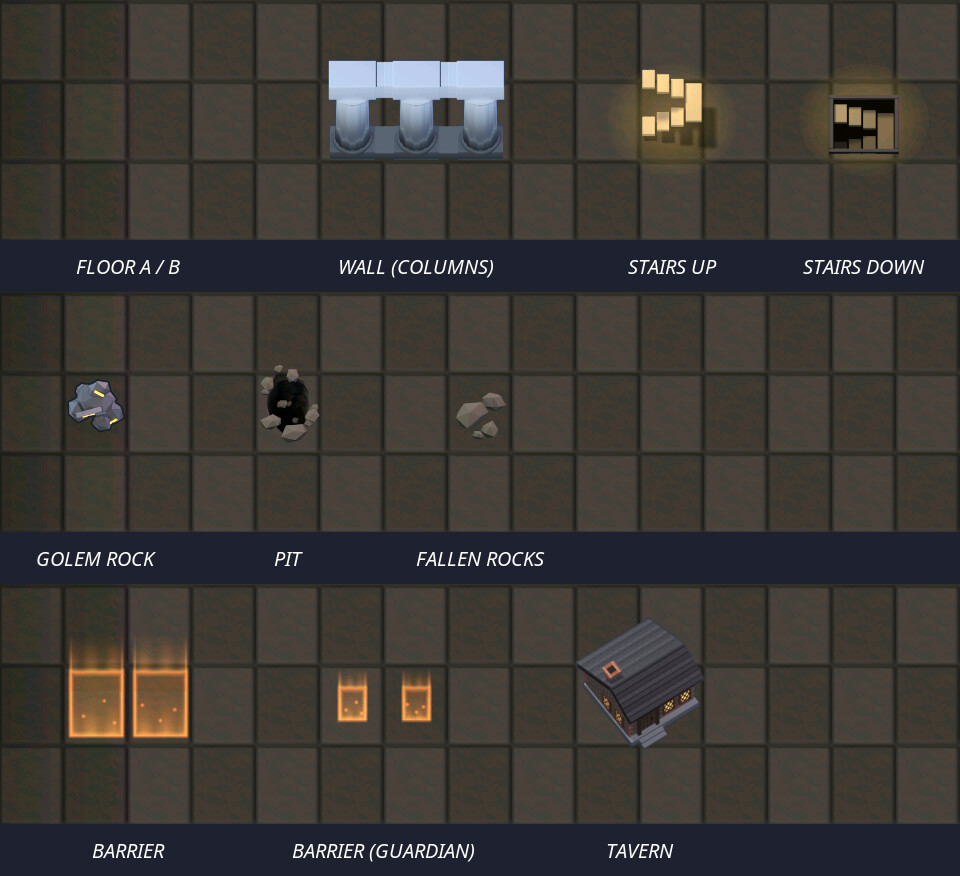
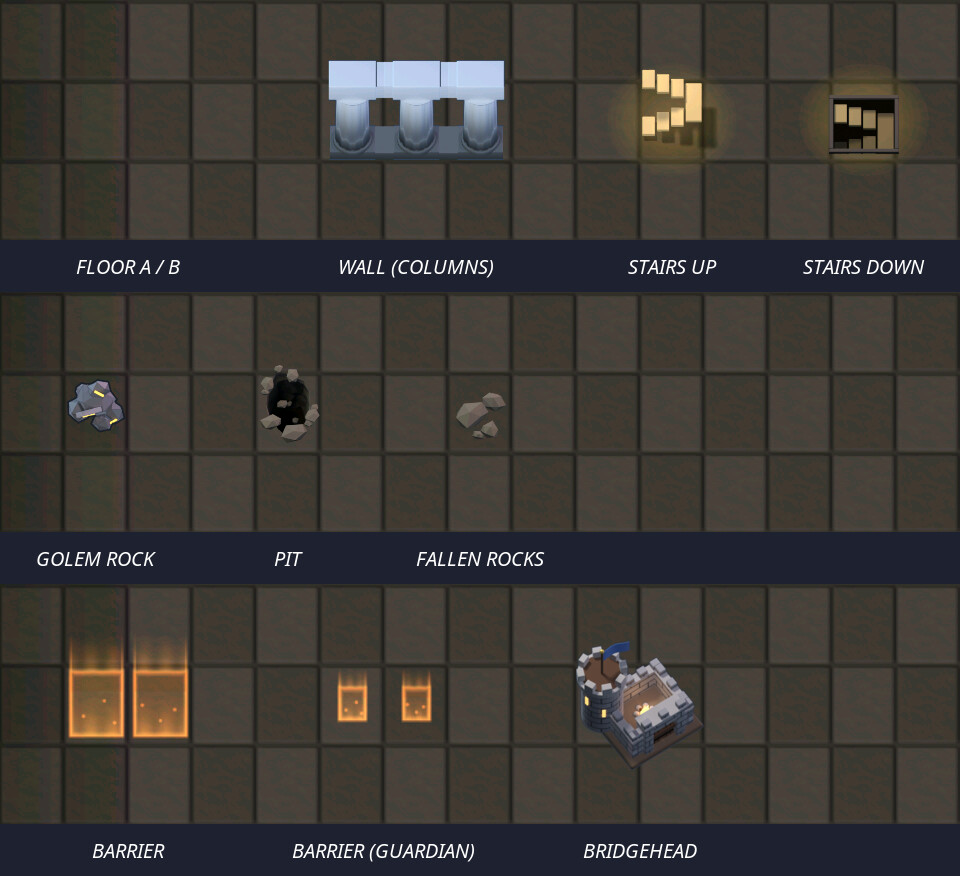
feat: replace tavern artwork with bridgehead trial
Keep only the campfire in the bridgehead yard and narrow the compound so
the image is a little taller. Show the bridgehead instead of the tavern in
the terrain preview, add the bridgehead asset, and remove the tavern asset.

Changed region(s): [[0.5938, 0.7089, 0.7188, 0.863], [0.5938, 0.9555, 0.7188, 0.9863]]

diff --git a/dev-samples/3d-stage1/preview-terrain.py b/dev-samples/3d-stage1/preview-terrain.py
@@ -3,8 +3,8 @@ labelled, in three rows: the two floor tiles, a wall of marble columns, and
 the up and down stairs; a golem rock, a pit, and the rocks fallen from a pit
 on the floor above; the barrier (both checkerboard variants), the reduced
 barrier shown near the player while Guardian lowers its damage, and the
-Stage 6 tavern. The tavern image is laid over its two cells here, at the
-game's scale, placed by tavern.json.
+trial Stage 6 bridgehead (build-bridgehead.py). The bridgehead image is laid
+over its two cells here, at the game's scale, placed by bridgehead.json.
 
     PYTHONPATH=src .venv/bin/python dev-samples/3d-stage1/preview-terrain.py [--stage N]
 
@@ -37,13 +37,14 @@ ROWS = [
     (4, [('FLOOR A / B', 2, 3), ('WALL (COLUMNS)', 6, 8), ('STAIRS UP', 11, 11),
          ('STAIRS DOWN', 14, 14)]),
     (7, [('GOLEM ROCK', 2, 2), ('PIT', 5, 5), ('FALLEN ROCKS', 8, 8)]),
-    (10, [('BARRIER', 2, 3), ('BARRIER (GUARDIAN)', 6, 7), ('TAVERN', 10, 11)]),
+    (10, [('BARRIER', 2, 3), ('BARRIER (GUARDIAN)', 6, 7), ('BRIDGEHEAD', 10, 11)]),
 ]
 LEFT, RIGHT = 1, 15
-TAVERN_ROW, TAVERN_COLUMN = 10, 10
 # Barrier cells drawn as when Guardian reduces their damage near the player.
 REDUCED_BARRIERS = {(6, 10), (7, 10)}
-TAVERN = Path(__file__).resolve().parents[2] / 'src' / 'arlq' / 'assets' / 'tavern'
+ASSETS = Path(__file__).resolve().parents[2] / 'src' / 'arlq' / 'assets'
+# Images laid over cells: (asset name, field row, first column).
+OVERLAYS = [('bridgehead', 10, 10)]
 
 ui = SpriteUI(scale=4)
 field = [[d.CHAR_FLOOR] * d.FIELD_WIDTH for _ in range(d.FIELD_HEIGHT)]
@@ -71,15 +72,16 @@ with tempfile.TemporaryDirectory() as work:
     full = Path(work) / 'full.png'
     pyglet.image.get_buffer_manager().get_color_buffer().save(str(full))
     cx, cy = ui.cell_size_x, ui.cell_size_y
-    placing = json.loads((TAVERN / 'tavern.json').read_text())
-    tavern_left = round(ui._field_col_x(TAVERN_COLUMN))
-    tavern_bottom = round((TAVERN_ROW + 1 + placing['under']) * cy)
-    tavern_width = round(placing['cells'] * cx)
-    tavern_height = round((placing['under'] + 1 + placing['overhang']) * cy)
-    subprocess.run(['convert', str(full), '(', str(TAVERN / 'tavern.png'), '-resize',
-                    '%dx%d!' % (tavern_width, tavern_height), ')', '-geometry',
-                    '+%d+%d' % (tavern_left, tavern_bottom - tavern_height), '-composite',
-                    str(full)], check=True)
+    for name, row, column in OVERLAYS:
+        placing = json.loads((ASSETS / name / (name + '.json')).read_text())
+        image_left = round(ui._field_col_x(column))
+        image_bottom = round((row + 1 + placing['under']) * cy)
+        image_width = round(placing['cells'] * cx)
+        image_height = round((placing['under'] + 1 + placing['overhang']) * cy)
+        subprocess.run(['convert', str(full), '(', str(ASSETS / name / (name + '.png')),
+                        '-resize', '%dx%d!' % (image_width, image_height), ')',
+                        '-geometry', '+%d+%d' % (image_left, image_bottom - image_height),
+                        '-composite', str(full)], check=True)
     left = round(ui._field_col_x(LEFT))
     width, height = round((RIGHT - LEFT + 1) * cx), round(3 * cy)
     strips = []

diff --git a/dev-samples/3d-stage1/build-bridgehead.py b/dev-samples/3d-stage1/build-bridgehead.py
@@ -7,8 +7,8 @@ two cells side by side on the floor and is drawn with the same 60-degree
 orthographic camera, turn and fit to the cells' width. The outpost is a low
 curtain of grey stone blocks with battlements around a packed-earth yard,
 a gatehouse in the front wall with a barred plank gate, a round watchtower
-at the back west corner flying a plain blue banner, a campfire in the
-yard, and a crate and a barrel; the whole raised on a low earth mound. Like the characters, it is drawn
+at the back west corner flying a plain blue banner, and only a campfire
+in the yard; the whole raised on a low earth mound. Like the characters, it is drawn
 simplified and exaggerated: big stones, merlons, gate and banner.
 
 Writes to OUT (BRIDGEHEAD_OUT in the environment, else
@@ -39,7 +39,7 @@ YAW = math.radians(35)
 
 # The outpost before it is fitted to the cells: its walls' half width, south
 # and north faces, height and thickness, and the merlons along their tops.
-HALF_W, SOUTH, NORTH = 0.68, 0.0, 0.90
+HALF_W, SOUTH, NORTH = 0.52, 0.0, 0.90
 MID = (SOUTH + NORTH) / 2
 WALL_H, T = 0.42, 0.11
 MERLON_W, MERLON_H, MERLON_STEP = 0.13, 0.11, 0.24
@@ -290,9 +290,8 @@ faces = [(u * (NV + 1) + v, u * (NV + 1) + v + 1, (u + 1) * (NV + 1) + v + 1,
 flag = mesh('Banner', vertices, faces, banner_cloth)
 solid = flag.modifiers.new('Cloth thickness', 'SOLIDIFY')
 solid.thickness = 0.012
-# In the yard: a campfire ringed with stones, and a crate and a barrel by
-# the back east corner.
-FX, FY = -0.06, 0.55
+# In the yard, alone: a campfire ringed with stones.
+FX, FY = 0.04, 0.50
 for k in range(7):
     a = 2 * math.pi * k / 7
     bpy.ops.mesh.primitive_uv_sphere_add(segments=8, ring_count=6, radius=0.045,
@@ -316,13 +315,6 @@ bpy.ops.object.light_add(type='POINT', location=(FX, FY, 0.25))
 fire_light = bpy.context.object
 fire_light.data.energy, fire_light.data.color = 1.2, (1.0, 0.55, 0.2)
 fire_light.data.shadow_soft_size = 0.05
-
-CY = NORTH - T - 0.13
-box('Crate', HALF_W - T - 0.22, HALF_W - T - 0.02, CY - 0.10, CY + 0.10, 0.01, 0.21, wood,
-    0.01)
-cylinder('Barrel', HALF_W - T - 0.36, CY + 0.02, 0.01, 0.25, 0.09, wood, 16, 0.01)
-for z in (0.05, 0.21):
-    cylinder('Barrel hoop', HALF_W - T - 0.36, CY + 0.02, z, z + 0.02, 0.093, dark_iron, 16)
 
 # Everything stands on a low earth mound, a little wider than the walls,
 # reaching out in front just past the gatehouse.
